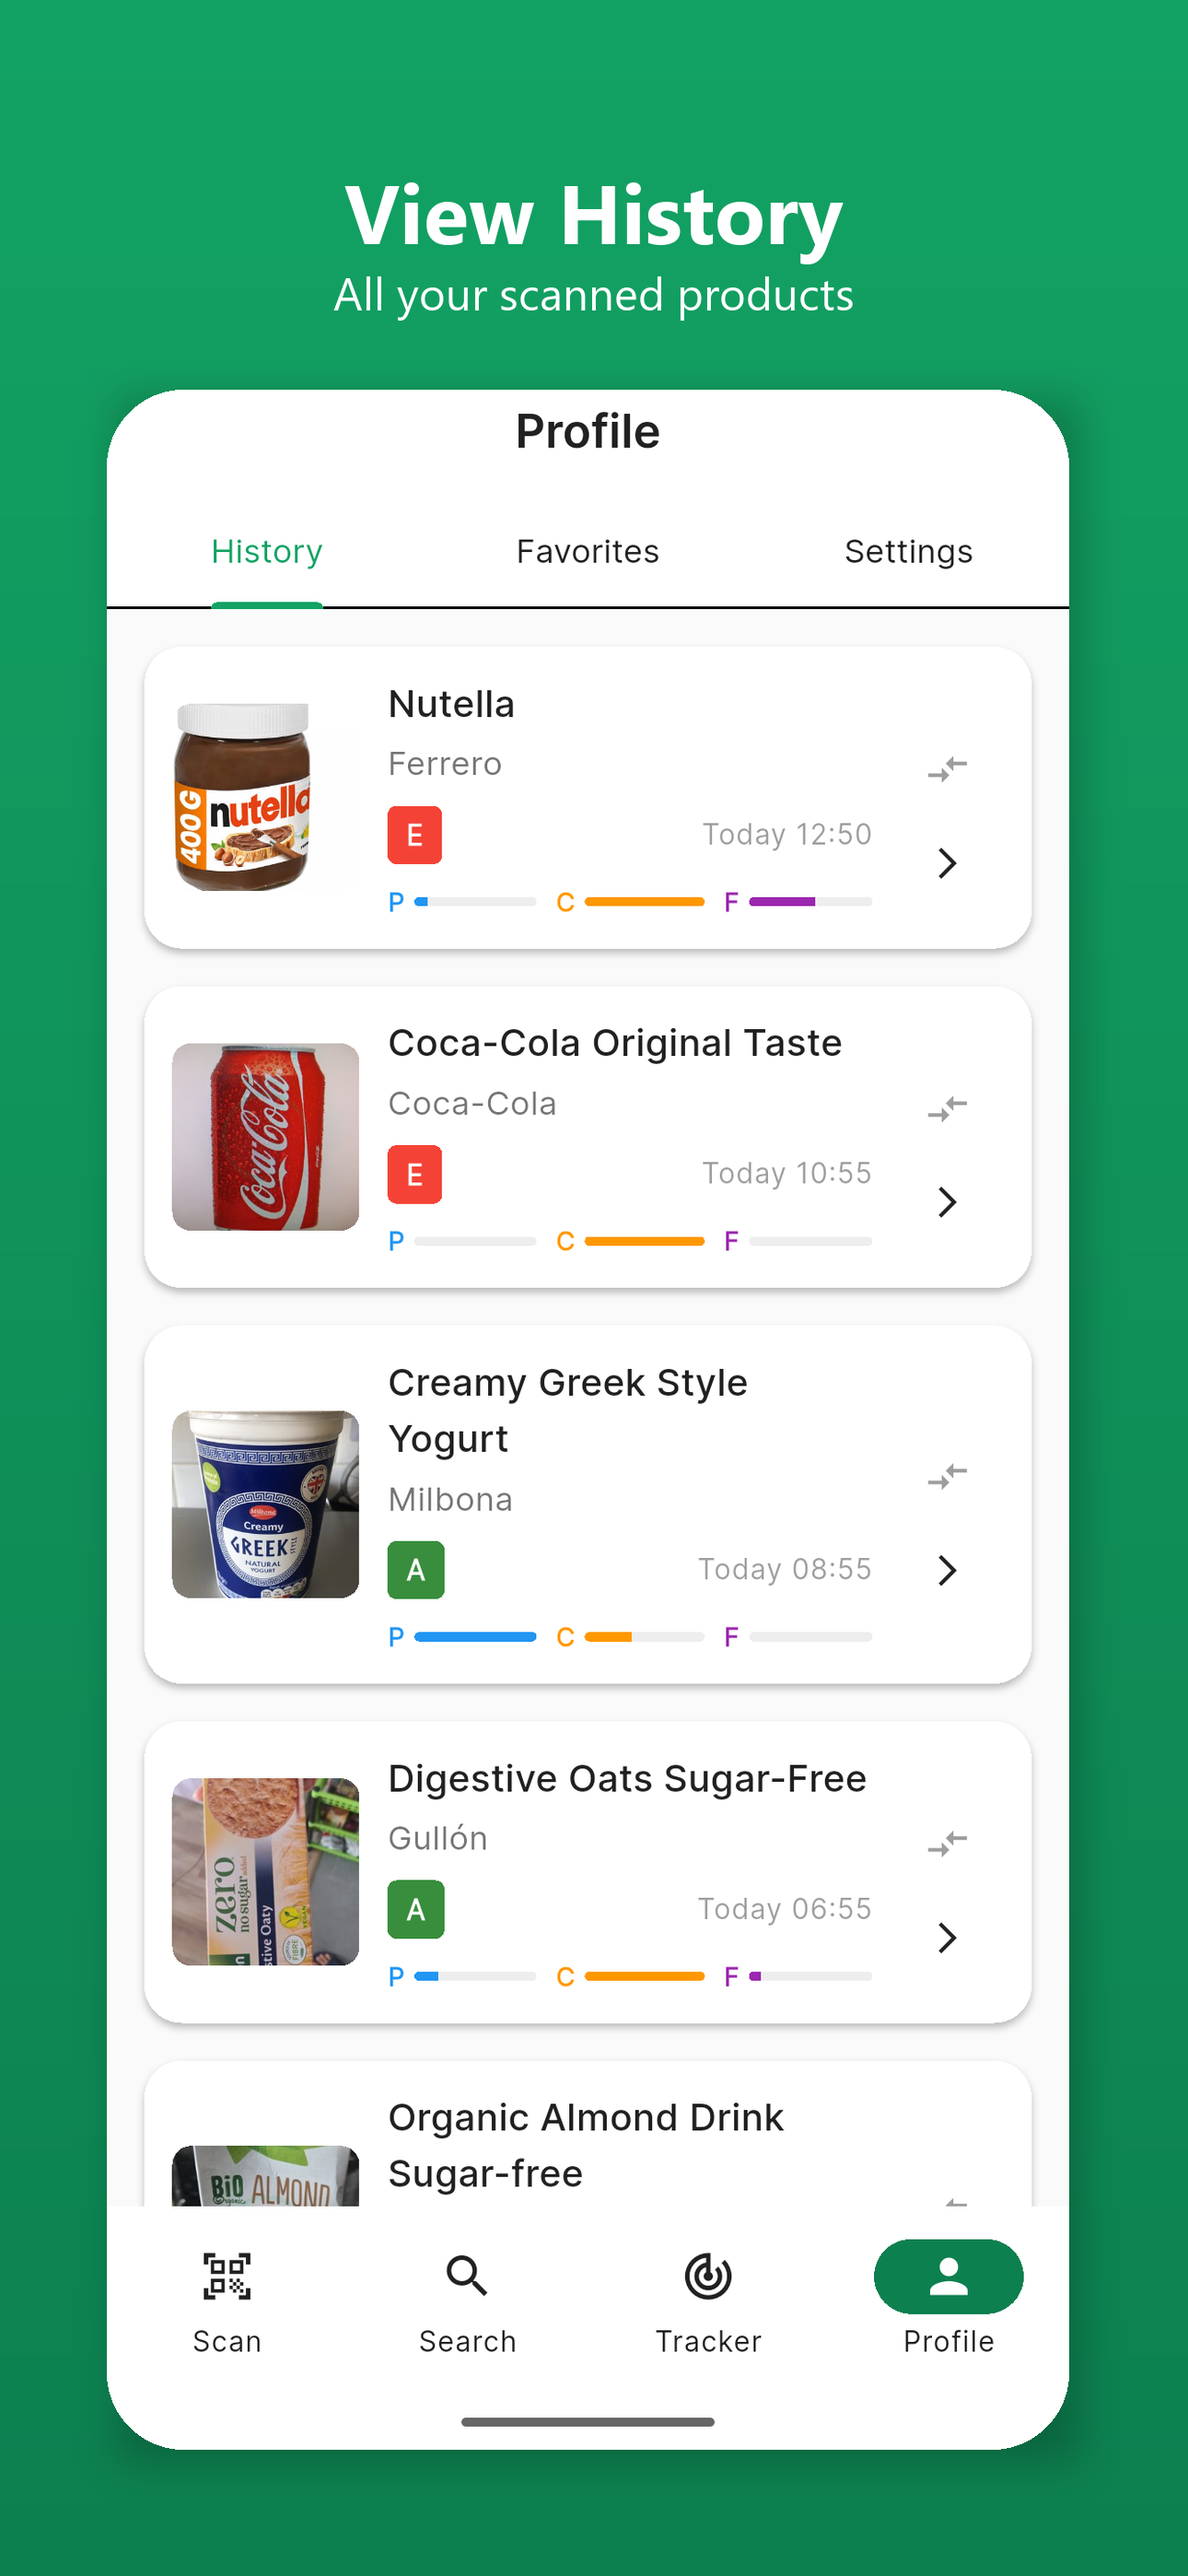
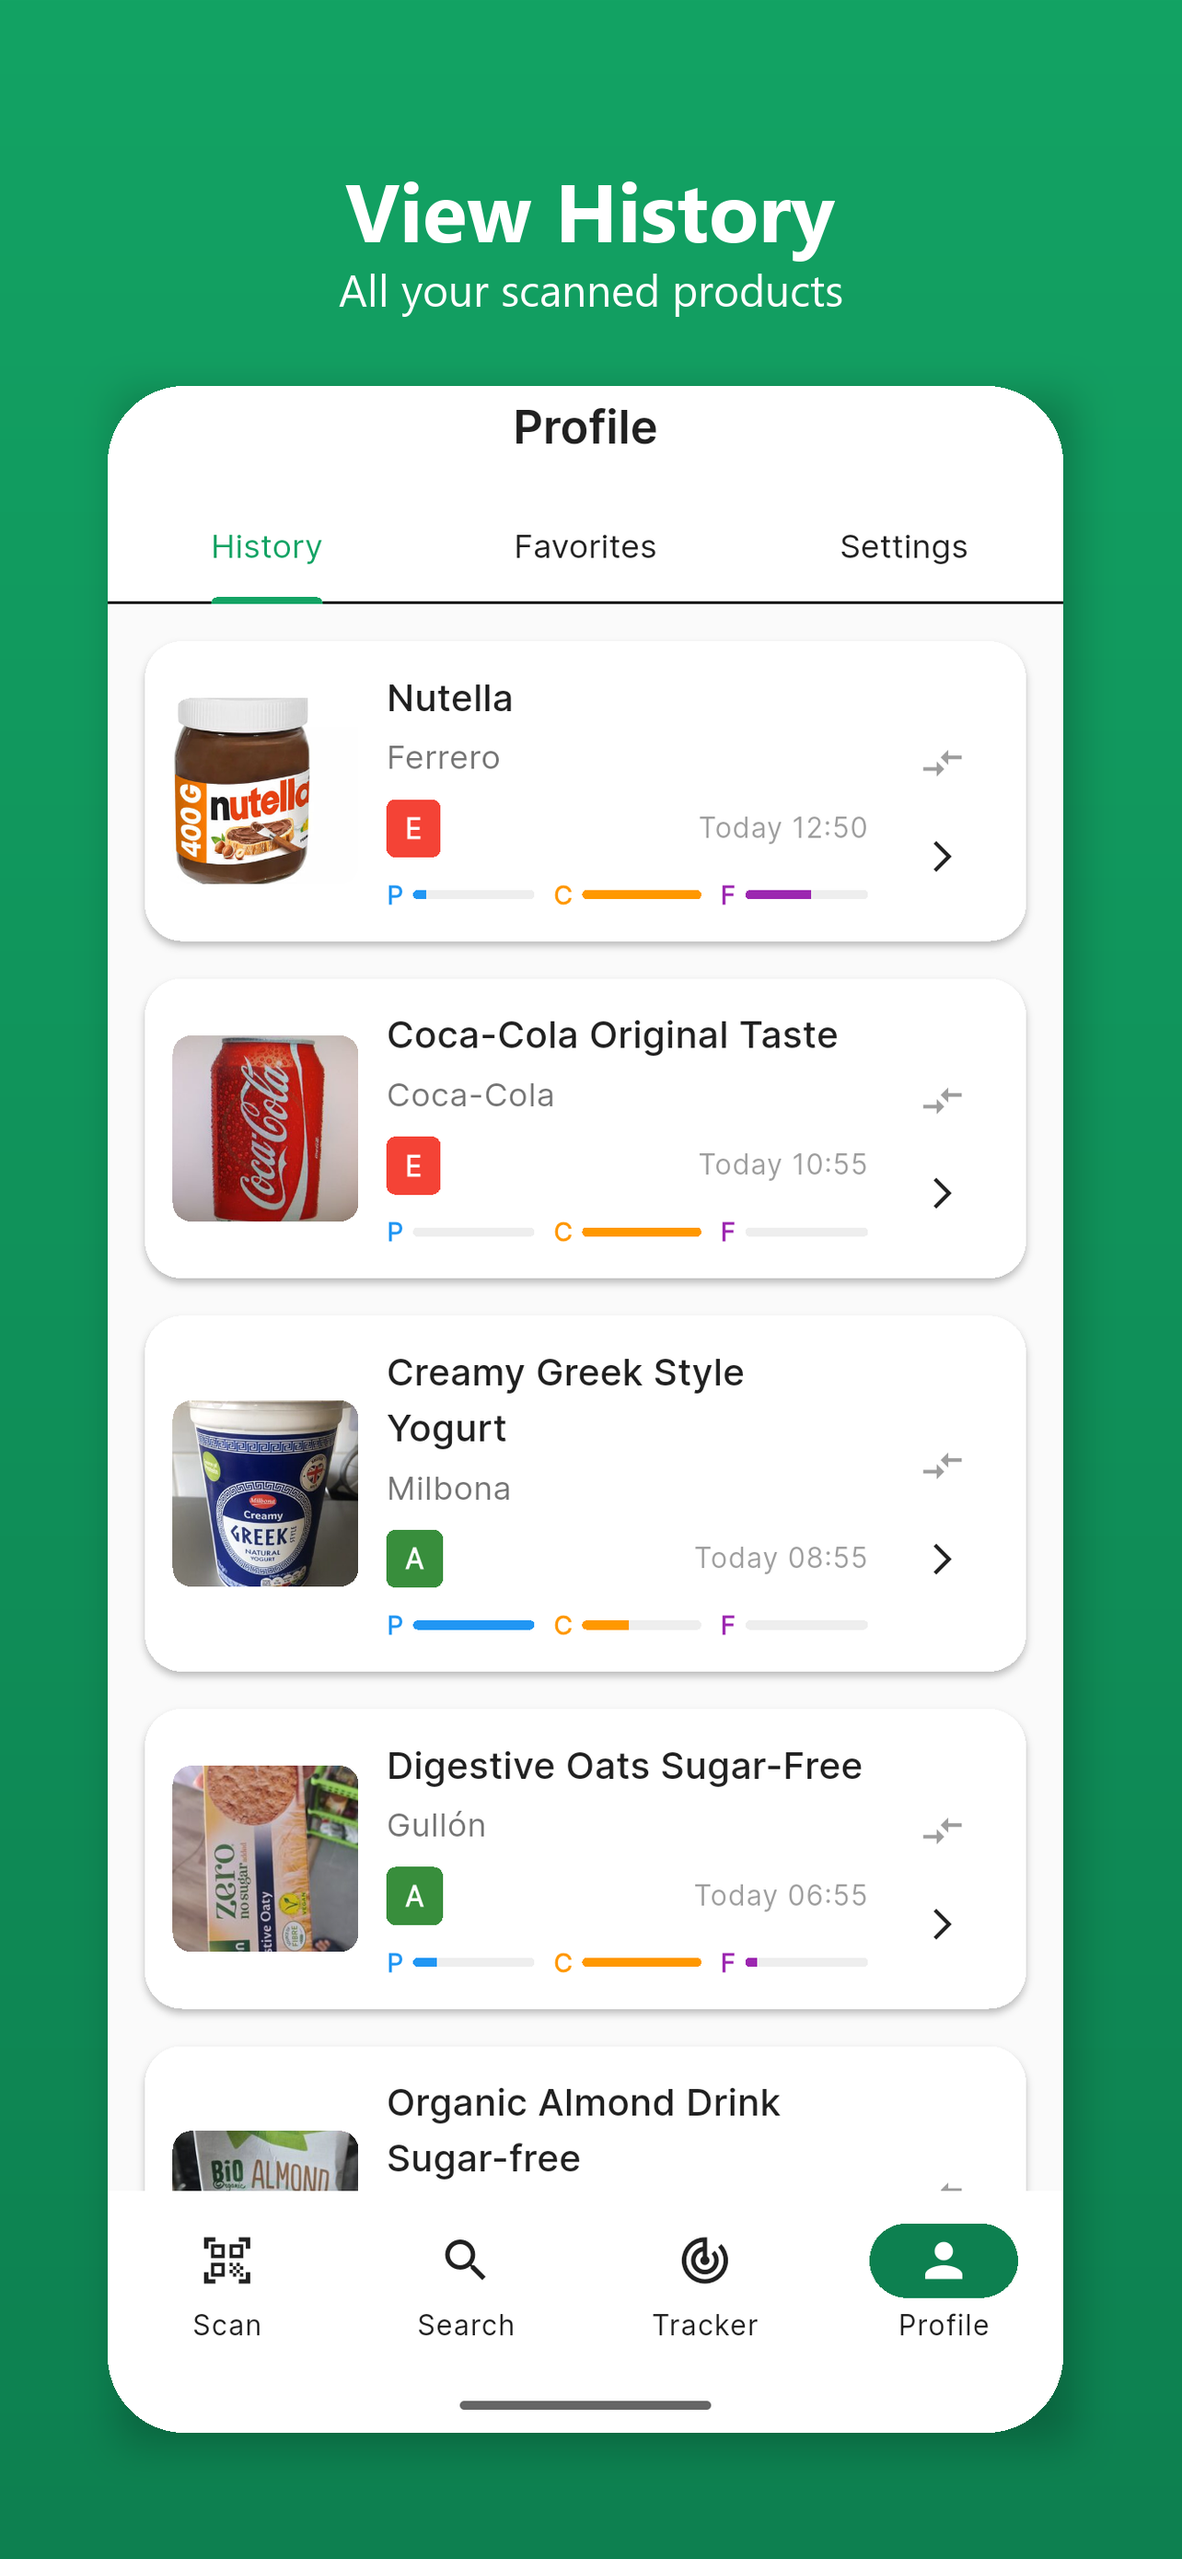
v1.0.1 release

diff --git a/screenshots/create_appstore_screenshots.py b/screenshots/create_appstore_screenshots.py
@@ -36,10 +36,14 @@ SCREENSHOTS = [
 ]
 
 # Device configurations
+# Apple App Store accepted dimensions:
+# - iPhone 6.7": 1284 x 2778px (portrait) or 2778 x 1284px (landscape)
+# - iPhone 6.5": 1242 x 2688px (portrait) or 2688 x 1242px (landscape)
+# - iPad 12.9": 2048 x 2732px (portrait) or 2732 x 2048px (landscape)
 DEVICES = {
     "iphone_67": {
-        "output_width": 1290,
-        "output_height": 2796,
+        "output_width": 1284,
+        "output_height": 2778,
         "status_bar_crop": 90,  # Android status bar height to crop (increased)
         "corner_radius_ratio": 0.08,
         "phone_height_ratio": 0.80,

diff --git a/APP_STORE_SCREENSHOT_PROMPT.md b/APP_STORE_SCREENSHOT_PROMPT.md
@@ -40,8 +40,8 @@ Create a Python script that:
 - Adds drop shadow
 - Places screenshot on gradient background matching app's primary color
 - Adds caption and subtitle text at top
-- Outputs correct sizes:
-  - iPhone 6.7": 1290x2796
+- Outputs correct sizes (Apple App Store accepted dimensions):
+  - iPhone 6.7": 1284x2778 (or 1242x2688 for 6.5")
   - iPad 12.9": 2048x2732
 
 ## 5. Captions for Screenshots
@@ -92,10 +92,14 @@ Create a Python script that:
 ### Python Script Requirements:
 ```python
 # Key configurations
+# Apple App Store accepted dimensions:
+# - iPhone 6.7": 1284 x 2778px (portrait) or 2778 x 1284px (landscape)
+# - iPhone 6.5": 1242 x 2688px (portrait) or 2688 x 1242px (landscape)
+# - iPad 12.9": 2048 x 2732px (portrait) or 2732 x 2048px (landscape)
 DEVICES = {
     "iphone_67": {
-        "output_width": 1290,
-        "output_height": 2796,
+        "output_width": 1284,
+        "output_height": 2778,
         "status_bar_crop": 110,  # Adjust based on device
         "corner_radius_ratio": 0.08,
         "phone_height_ratio": 0.62,
